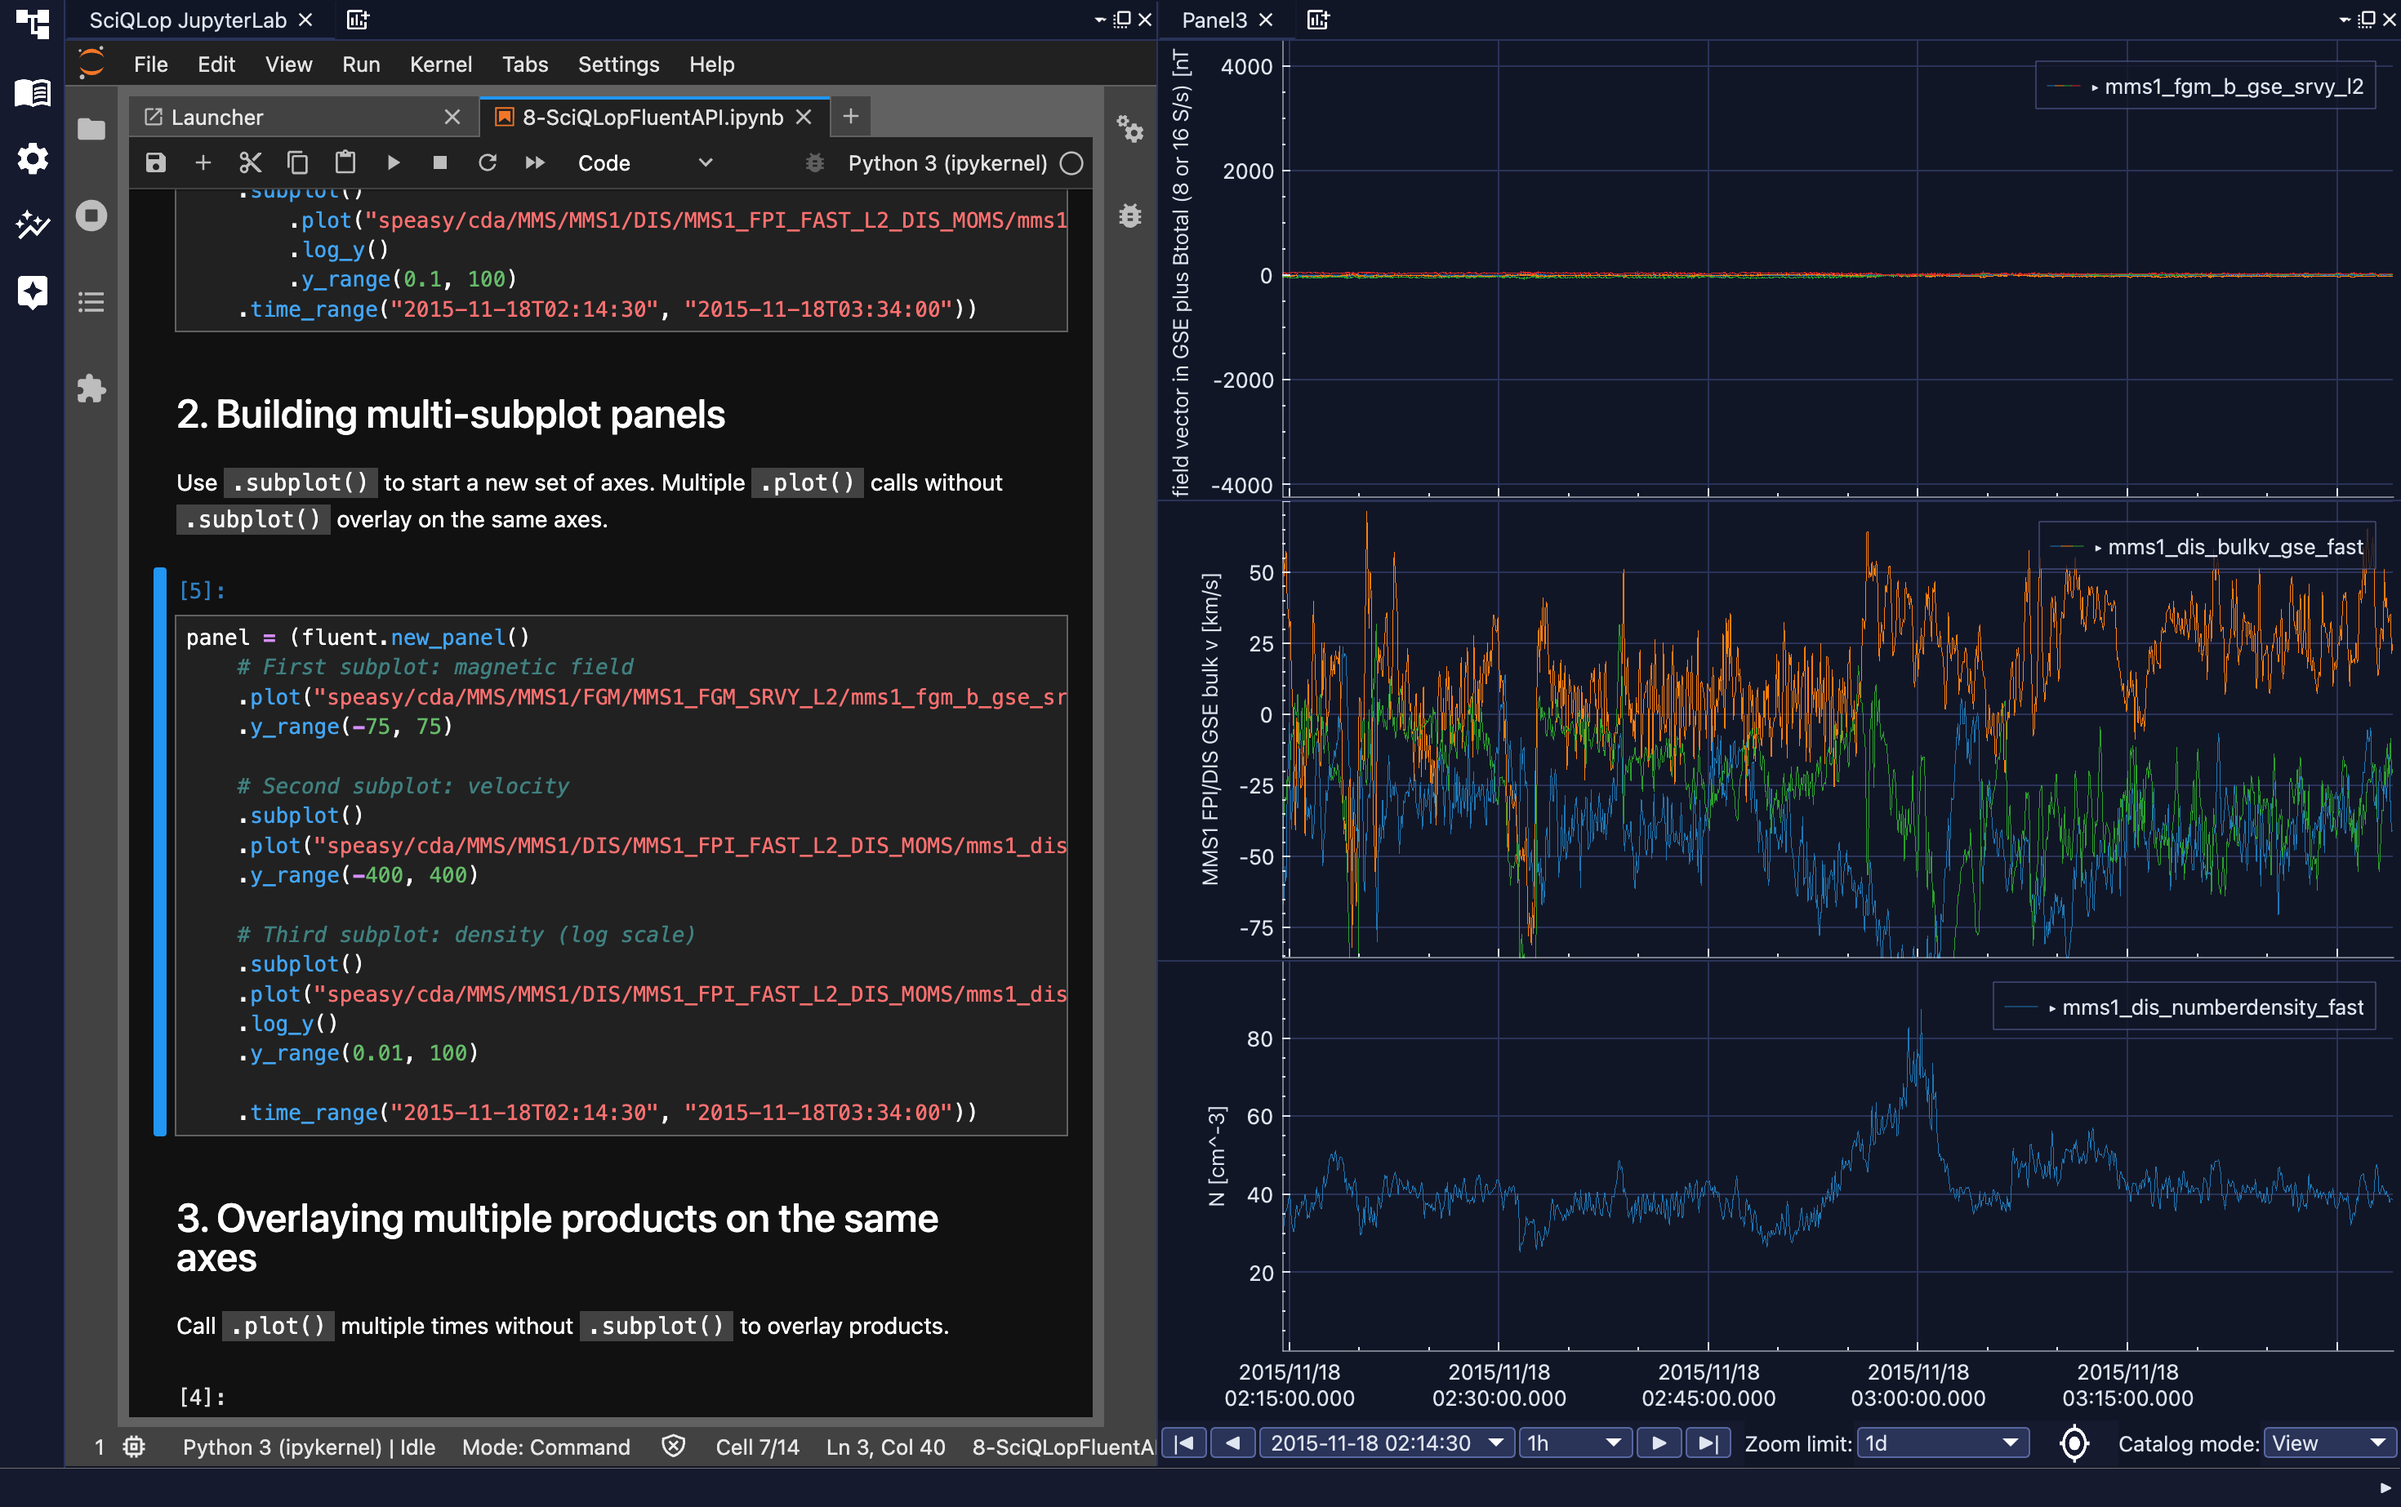
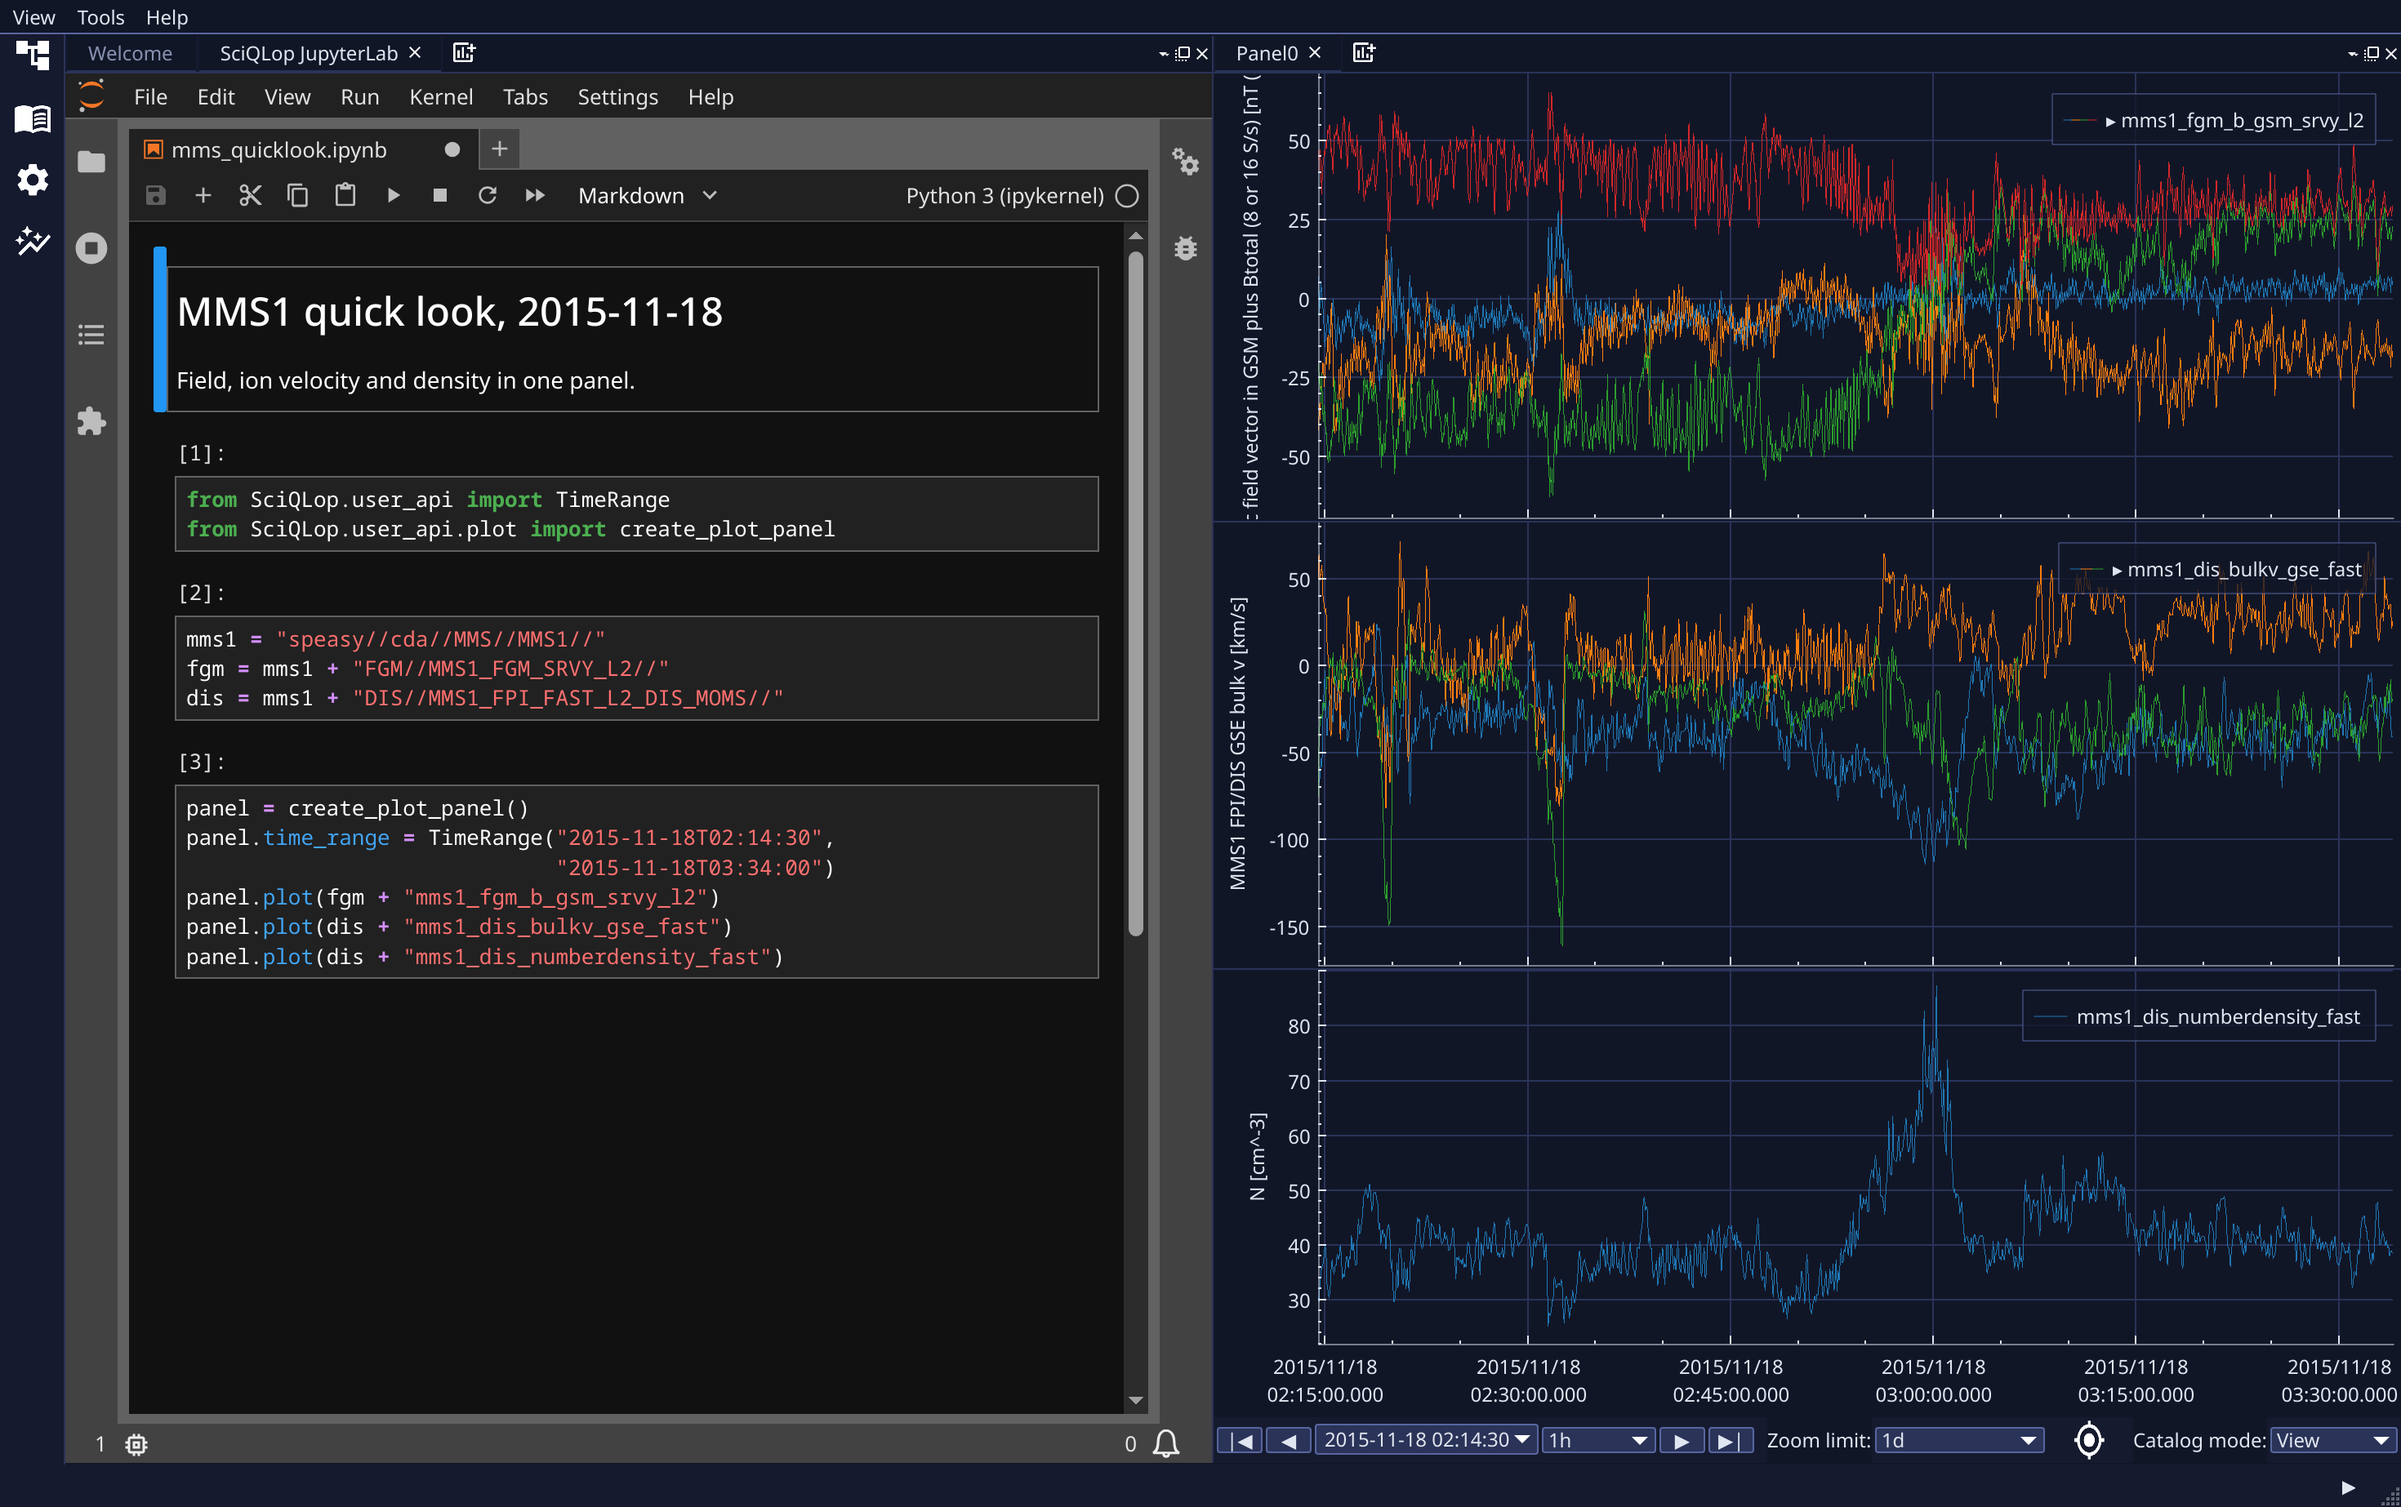
site: JupyterLab shots scripted (SciQLop 8f2c5bfab starts Lab in batch mode)
The landing shot shows the notebook whose code builds the panel beside it.
The virtual-products launcher shot marks the notebook tile, and the text names
the kernel the launcher really shows (ipykernel).

diff --git a/scripts/shots/landing_jupyterlab.py b/scripts/shots/landing_jupyterlab.py
@@ -1,28 +1,67 @@
-"""sciqlop_jupyterlab_plot_side_by_side.png: JupyterLab and a plot panel, side by side."""
+"""sciqlop_jupyterlab_plot_side_by_side.png: a notebook in JupyterLab and the panel its code builds."""
 # needs: webengine
+import json
 import os
 import sys
 
+from PySide6.QtCore import QUrl
+
 sys.path.insert(0, os.path.dirname(__file__))
-from mms import DIS_FAST, FGM_SRVY_GSM  # noqa: E402
-from shotlib import grab, main_window, pump, settle, wait_until  # noqa: E402
+from shotlib import grab, lab_view, main_window, open_jupyterlab, pump, settle, toggle_lab_sidebar  # noqa: E402
 
 from PySide6QtAds import RightDockWidgetArea  # noqa: E402
-from SciQLop.user_api import TimeRange  # noqa: E402
-from SciQLop.user_api.plot import create_plot_panel  # noqa: E402
+
+NOTEBOOK = "mms_quicklook.ipynb"
+CELLS = [
+    ("markdown", "## MMS1 quick look, 2015-11-18\n\nField, ion velocity and density in one panel."),
+    ("code", "from SciQLop.user_api import TimeRange\nfrom SciQLop.user_api.plot import create_plot_panel"),
+    ("code", '''mms1 = "speasy//cda//MMS//MMS1//"
+fgm = mms1 + "FGM//MMS1_FGM_SRVY_L2//"
+dis = mms1 + "DIS//MMS1_FPI_FAST_L2_DIS_MOMS//"'''),
+    ("code", '''panel = create_plot_panel()
+panel.time_range = TimeRange("2015-11-18T02:14:30",
+                             "2015-11-18T03:34:00")
+panel.plot(fgm + "mms1_fgm_b_gsm_srvy_l2")
+panel.plot(dis + "mms1_dis_bulkv_gse_fast")
+panel.plot(dis + "mms1_dis_numberdensity_fast")'''),
+]
+
+
+def write_notebook(path: str) -> None:
+    cells = [{"cell_type": kind, "metadata": {}, "source": src,
+              **({"outputs": [], "execution_count": n} if kind == "code" else {})}
+             for n, (kind, src) in enumerate(CELLS)]
+    nb = {"cells": cells, "metadata": {"kernelspec": {"name": "python3", "display_name": "Python 3"}},
+          "nbformat": 4, "nbformat_minor": 5}
+    with open(path, "w") as f:
+        json.dump(nb, f)
+
+
+def open_in_lab(lab_dock, path: str) -> None:
+    view = lab_view(lab_dock)
+    view.setUrl(QUrl(view.url().toString().replace("/lab", f"/lab/tree/{path}")))
+
+
+def build_panel_from_notebook_code():
+    namespace = {}
+    for kind, src in CELLS:
+        if kind == "code":
+            exec(src, namespace)
+    return namespace["panel"]
+
 
 mw = main_window("space")
-mw.open_jupyterlab_widget()
-wait_until(lambda: mw.dock_manager.findDockWidget("SciQLop JupyterLab") is not None, timeout=120,
-           what="the JupyterLab dock")
-pump(20)  # JupyterLab's own page load
-panel = create_plot_panel()
-panel.time_range = TimeRange("2015-11-18T02:14:30", "2015-11-18T03:34:00")
-panel.plot(FGM_SRVY_GSM)
-panel.plot(DIS_FAST + "mms1_dis_bulkv_gse_fast")
-panel.plot(DIS_FAST + "mms1_dis_numberdensity_fast")
+lab = open_jupyterlab()
+write_notebook(NOTEBOOK)  # starting Jupyter moved us into the workspace, the server's root
+open_in_lab(lab, NOTEBOOK)
+pump(15)
+toggle_lab_sidebar(lab)
+panel = build_panel_from_notebook_code()
 settle(panel)
-dock = next(d for d in mw.dock_manager.dockWidgetsMap().values() if d.widget() is panel._impl)
+dock = mw.dock_manager.findDockWidget(panel.name)
 mw.dock_manager.addDockWidget(RightDockWidgetArea, dock)
+pump(1)
+splitter = lab.dockAreaWidget().parentWidget()
+splitter.setSizes([int(splitter.width() * 0.5), int(splitter.width() * 0.5)])
 pump(3)
 grab("sciqlop_jupyterlab_plot_side_by_side.png")

diff --git a/scripts/shots/shotlib.py b/scripts/shots/shotlib.py
@@ -41,6 +41,42 @@ def wait_until(predicate, timeout: float = 30.0, what: str = "condition") -> Non
     raise TimeoutError(f"{what} not met after {timeout} s")
 
 
+def open_jupyterlab() -> QWidget:
+    """Open the JupyterLab dock and wait for Lab's page; needs `# needs: webengine`."""
+    mw = get_main_window()
+    mw.open_jupyterlab_widget()
+    wait_until(lambda: mw.dock_manager.findDockWidget("SciQLop JupyterLab") is not None, timeout=120,
+               what="the JupyterLab dock")
+    pump(20)  # Lab's own page load
+    return mw.dock_manager.findDockWidget("SciQLop JupyterLab")
+
+
+def lab_view(lab_dock: QWidget):
+    from PySide6.QtWebEngineWidgets import QWebEngineView
+    return lab_dock.findChildren(QWebEngineView)[0]
+
+
+def toggle_lab_sidebar(lab_dock: QWidget) -> None:
+    """Ctrl+B, Lab's "toggle left area" shortcut. Clicking the side-bar tab doesn't work:
+    Lumino tabs listen for pointer events, not clicks."""
+    lab_view(lab_dock).page().runJavaScript(
+        "document.activeElement.dispatchEvent(new KeyboardEvent('keydown',"
+        " {key: 'b', code: 'KeyB', keyCode: 66, ctrlKey: true, bubbles: true}))")
+    pump(1)
+
+
+def lab_element_rect(lab_dock: QWidget, selector: str) -> QRect:
+    """Window rect of the first element matching `selector` in Lab's page."""
+    found = []
+    lab_view(lab_dock).page().runJavaScript(
+        f"(r => [r.x, r.y, r.width, r.height].join(','))(document.querySelector({selector!r}).getBoundingClientRect())",
+        0, found.append)
+    wait_until(lambda: found, what=f"Lab element {selector}")
+    x, y, w, h = map(float, found[0].split(","))  # a JS array would arrive empty
+    origin = rect_in_window(lab_view(lab_dock)).topLeft()
+    return QRect(origin.x() + int(x), origin.y() + int(y), int(w), int(h))
+
+
 def main_window(theme: str = "dark"):
     themes.apply_theme(theme)
     mw = get_main_window()

diff --git a/scripts/shots/tutorial_vp_jupyterlab.py b/scripts/shots/tutorial_vp_jupyterlab.py
@@ -1,0 +1,14 @@
+"""virtual products/jupyterlab.png: JupyterLab's launcher, where a new notebook starts."""
+# needs: webengine
+import os
+import sys
+
+sys.path.insert(0, os.path.dirname(__file__))
+from shotlib import Arrow, grab, lab_element_rect, main_window, open_jupyterlab, toggle_lab_sidebar  # noqa: E402
+
+main_window()
+lab = open_jupyterlab()
+toggle_lab_sidebar(lab)
+notebook_card = lab_element_rect(lab, ".jp-Launcher-section .jp-LauncherCard")
+grab("virtual products/jupyterlab.png",
+     [Arrow(notebook_card, "new notebook", (notebook_card.right() + 140, notebook_card.center().y()), box=True)])

diff --git a/content/tutorials/virtual products.md b/content/tutorials/virtual products.md
@@ -41,7 +41,7 @@ don't worry we will explain this in more details below. Essentially this will ad
 
 # Open a Jupyter notebook
 
-Jupyter notebooks are embedded in SciQLop to let you interact with the software. Open JupyterLab from **Tools › Open JupyterLab**, then click on "Python 3 (jupyqt)" under "Notebook" to open a new notebook. This notebook runs inside SciQLop, so it can drive it.
+Jupyter notebooks are embedded in SciQLop to let you interact with the software. Open JupyterLab from **Tools › Open JupyterLab**, then click on "Python 3 (ipykernel)" under "Notebook" to open a new notebook. This notebook runs inside SciQLop, so it can drive it.
 
 ![[jupyterlab.png]]
 

diff --git a/scripts/shots/README.md b/scripts/shots/README.md
@@ -18,5 +18,4 @@ scripts/shots/run.sh gallery_01_hero ...   # some shots
 A shot that fails or looks wrong is a SciQLop bug until shown otherwise: report it with the script as the
 reproducer. Workarounds in the scripts are marked "reported 2026-10-11"; drop them once SciQLop is fixed.
 
-Not scriptable yet: `landing_jupyterlab.py` (JupyterLab won't start in batch mode). Its old image
-stays on the site. The AI-assistant shot, the GIFs and the two old catalog-explorer shots are made by hand.
+The AI-assistant shot, the GIFs and the two old catalog-explorer shots are made by hand.
